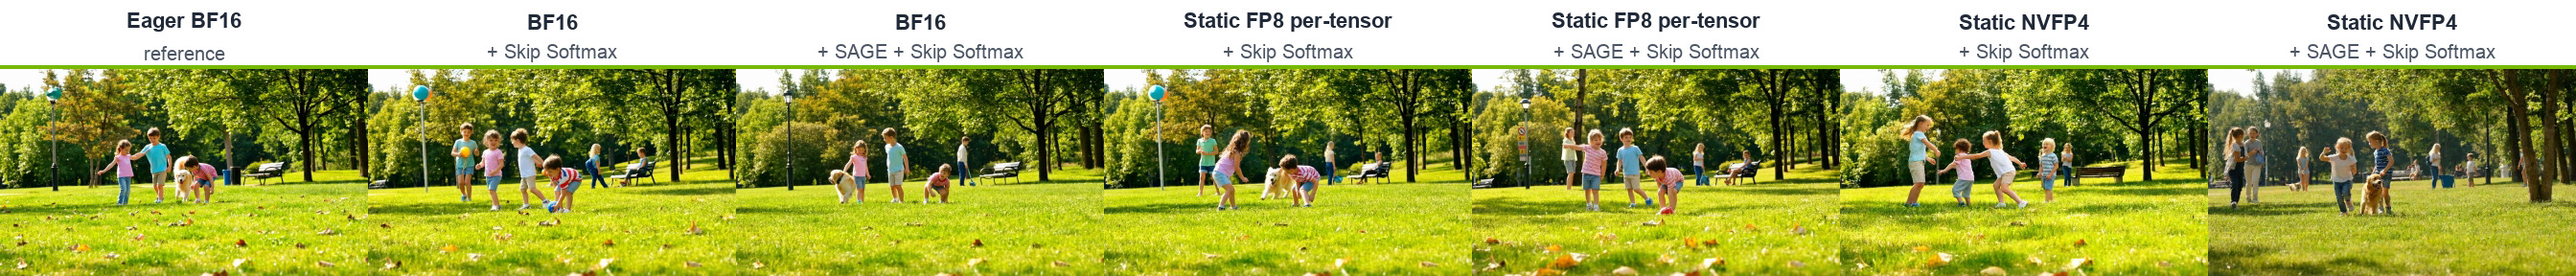
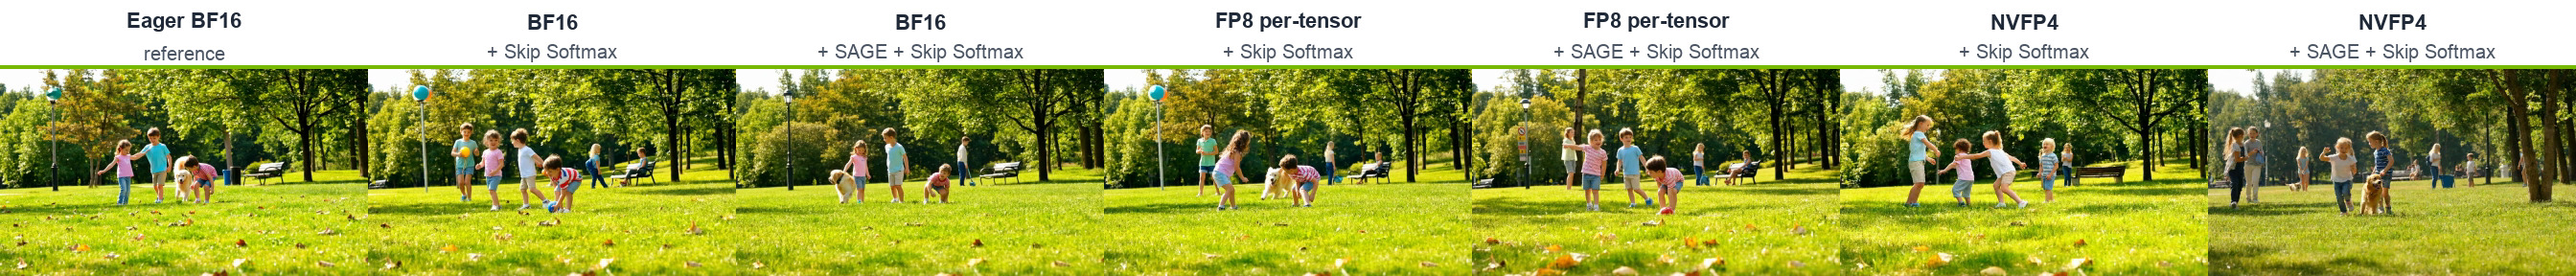
[docs] refine Blog 28 presentation and reproduction

diff --git a/docs/source/blogs/tech_blog/blog28_Accelerating_Video_Generation_with_GEMM_Quantization_Attention_Quantization_and_Skip_Softmax_Attention_in_TensorRT-LLM.md b/docs/source/blogs/tech_blog/blog28_Accelerating_Video_Generation_with_GEMM_Quantization_Attention_Quantization_and_Skip_Softmax_Attention_in_TensorRT-LLM.md
@@ -4,15 +4,14 @@ By NVIDIA TensorRT-LLM Team
 
 ## Introduction
 
-Video diffusion transformers repeatedly process long spatiotemporal token sequences across many denoising steps. Linear layers and attention therefore dominate much of the compute, making them the two most direct targets for reducing generation latency.
+Video diffusion transformers (DiTs) repeatedly process long spatiotemporal token sequences across many denoising steps. Linear layers and attention therefore dominate much of the compute, making them the two most direct targets for reducing generation latency.
 
 Figure 1 breaks down pipeline-forward time for Wan 2.2 T2V-A14B on a single NVIDIA B200. For an 81-frame, 1280×720 video with 40 denoising steps, attention and linear-layer GEMMs account for 70.3% and 21.0% of BF16 pipeline-forward time, respectively.
 
 <p align="center">
-  <img src="../media/tech_blog28_bf16_time_breakdown.png" alt="Pie chart showing that a dense BF16 path spends 70.3% of pipeline-forward time in attention, 21.0% in GEMMs, and 8.7% in other work" width="1080">
+  <img src="../media/tech_blog28_bf16_time_breakdown.png" alt="Pie chart showing that Wan 2.2 T2V-A14B in BF16 spends 70.3% of pipeline-forward time in attention, 21.0% in GEMMs, and 8.7% in other work" width="1080">
 </p>
-
-<p align="center"><sub><em>Figure 1. Pipeline-forward breakdown for dense BF16 on B200.</em></sub></p>
+<p align="center"><sub><em>Figure 1. Diffusion pipeline-forward breakdown for Wan 2.2 T2V-A14B in BF16 on B200.</em></sub></p>
 
 Our earlier post, [Scaling Video Generation Across NVL72 Rack with TensorRT-LLM](https://github.com/NVIDIA/TensorRT-LLM/blob/main/docs/source/blogs/tech_blog/blog25_Scaling_Video_Generation_Across_NVL72_Rack_with_TensorRT-LLM.md), focused on scale-out. This post covers three complementary acceleration techniques inside one transformer pipeline: linear-layer quantization, quantized attention, and sparse attention. The central question is how to reduce latency without giving up more visual quality than the application can tolerate.
 
@@ -29,33 +28,56 @@ Our earlier post, [Scaling Video Generation Across NVL72 Rack with TensorRT-LLM]
 
 Linear-layer quantization reduces the numerical precision of weights and activations so their GEMMs can use higher-throughput Tensor Core paths. TensorRT-LLM VisualGen supports the following GEMM quantization paths:
 
-| Linear-layer path | `quant_algo` | Weight / activation precision | Scale granularity |
-| :--- | :--- | :--- | :--- |
-| FP8 per-tensor | `FP8` | FP8 E4M3 / FP8 E4M3 | One scale per tensor |
-| FP8 blockwise | `FP8_BLOCK_SCALES` | FP8 E4M3 / FP8 E4M3 | 128×128 weight blocks; 1×128 activation blocks |
-| FP8 row-wise | `FP8_PER_CHANNEL_PER_TOKEN` ([WIP](https://github.com/NVIDIA/TensorRT-LLM/pull/16847)) | FP8 E4M3 / FP8 E4M3 | Per-output-channel weights; per-token activations |
-| NVFP4 | `NVFP4` | FP4 E2M1 / FP4 E2M1 | 16-element blocks with FP8 scale factors |
+| `quant_algo` | Weight precision | Weight scaling | Activation precision | Activation scaling |
+| :--- | :--- | :--- | :--- | :--- |
+| `FP8` | FP8 E4M3 | Per tensor (FP32) | FP8 E4M3 | Per tensor (FP32) |
+| `FP8_BLOCK_SCALES` | FP8 E4M3 | Per 128×128 block (FP32<sup>*</sup>) | FP8 E4M3 | Per 1×128 block (FP32<sup>*</sup>) |
+| `FP8_PER_CHANNEL_PER_TOKEN` ([WIP](https://github.com/NVIDIA/TensorRT-LLM/pull/16847)) | FP8 E4M3 | Per output channel (FP32) | FP8 E4M3 | Per token (FP32) |
+| `NVFP4` | FP4 E2M1 | Per 16-element block (FP8 E4M3), plus a per-tensor scale (FP32) | FP4 E2M1 | Per 16-element block (FP8 E4M3), plus a per-tensor scale (FP32) |
 
-- **Static quantization:** Representative inputs are used before inference to find weight and activation scales that make effective use of the limited FP8 or FP4 range. Accuracy-sensitive layers can remain in higher precision instead of being quantized. The resulting checkpoint stores quantized weights together with `weight_scale` and `input_scale` tensors; `input_scale` is the calibrated scale applied to runtime activations. The public checkpoints used in this post were calibrated with [NVIDIA Model Optimizer (ModelOpt)](https://github.com/NVIDIA/Model-Optimizer).
-- **Dynamic quantization:** Dynamic quantization skips offline calibration. VisualGen starts from a BF16 checkpoint, quantizes weights while loading the model, and computes activation scales as the model runs. This makes quantization easy to try without preparing a separate checkpoint, but it generally preserves less accuracy than static quantization with calibrated scales and selectively retained high-precision layers.
+<p align="center"><sub><em><sup>*</sup> FP8 blockwise scale values use FP32 in the checkpoint and generic interface. On B200, weight scales are converted to UE8M0 and activation scales are generated in UE8M0 for the Blackwell block-scaled MMA.</em></sub></p>
 
-In this blog, we test the static `FP8` and `NVFP4` using the [FP8 per-tensor](https://huggingface.co/nvidia/Wan2.2-T2V-A14B-Diffusers-FP8) and [NVFP4](https://huggingface.co/nvidia/Wan2.2-T2V-A14B-Diffusers-NVFP4) Wan 2.2 T2V checkpoints published by ModelOpt.
+Depending on whether there's an offline quantization/calibration procedure, there are two distinct quantization paths:
+
+- **Static quantization:** Weights are quantized offline. Meanwhile, some representative inputs are forwarded through the network to determine the static scaling factors for the activation. After this procedure of offline quantization and calibration, the quantized weights, weight scales and activation scales are stored in the checkpoint. But note that only per-tensor activation scales will be calibrated offline, such as the FP32 for per-tensor `FP8` and the second-level per-tensor in `NVFP4`. Other activation scales, such as the block scales in `NVFP4` are still computed dynamically during runtime. In addition, accuracy-sensitive modules can be discovered and remained in higher precision during offline quantization.
+- **Dynamic quantization:** The original BF16 checkpoint is directly loaded. The weights are quantized to the target precision during loading. The activation is always quantized dynamically during runtime, including the scaling factors, which might be more expensive compared to static quantization path, especially for the per-tensor scales. With dynamic quantization, it is easier to try the target quantization recipe without preparing a dedicated quantized checkpoint, but generally preserves less accuracy than static quantization that could calibrate activation scales and protect sensitive modules.
+
+Static quantization has advantage over dynamic quantization in terms of both speed and accuracy, and should be preferred if possible. The public checkpoints used in this post were quantized with [NVIDIA Model Optimizer (ModelOpt)](https://github.com/NVIDIA/Model-Optimizer). The [ModelOpt diffusion PTQ example](https://github.com/NVIDIA/Model-Optimizer/blob/main/examples/diffusers/README.md#post-training-quantization-ptq) shows how to calibrate and quantize diffusion models.
 
 ## Attention Optimizations
 
-There are two orthogonal directions for accelerating attention: quantized attention lowers numeric precision, while sparse attention omits contributions from unimportant blocks and saves the corresponding computation.
+There are two orthogonal directions for accelerating attention: quantized attention lowers numeric precision, while sparse attention omits contributions from unimportant blocks and saves the corresponding computation. The optimizations introduced in this section are available for the `TRTLLM` attention backend.
 
 ### Quantized Attention
 
-An attention layer performs two matrix multiplications around softmax. SAGE Attention quantizes Q/K as well as V, allowing both multiplications to run through an 8-bit path. TensorRT-LLM's SAGE recipe follows the [SageAttention2](https://arxiv.org/abs/2411.10958) line of work, using INT8 or FP8 Q/K and FP8 V rather than the paper's per-thread INT4 Q/K recipe.
+An attention OP performs two matrix multiplications around softmax: `QKᵀ` produces attention scores, and `PV` linearly combines the V vectors with weights given by the softmax probabilities P. SAGE Attention quantizes the operands of both operations, allowing `QKᵀ` and `PV` to use 8-bit paths. `TRTLLM` SAGE recipe follows the [SageAttention2](https://arxiv.org/abs/2411.10958) line of work, using INT8 or FP8 for `QKᵀ` and FP8 for `PV`.
 
-This post uses SAGE, which can be layered with Skip Softmax to combine quantization and sparsity in the same attention path.
+A quantization block is a group of values that shares one scale. The five fields in `quant_attention_config` define the low-precision formats and scaling granularity used by SAGE Attention:
+
+- `qk_dtype` selects the low-precision format for `QKᵀ`. The `TRTLLM` SAGE backend supports `int8` and `fp8`; this post uses `int8`.
+- `v_dtype` selects the low-precision format for `PV`. The `TRTLLM` SAGE backend currently only supports `fp8` (E4M3).
+- `q_block_size` is the number of consecutive query tokens that share a Q scale. A value of `1` gives each query token its own scale.
+- `k_block_size` is the number of consecutive key tokens that share a K scale. A value of `16` shares one scale across 16 key tokens.
+- `v_block_size` controls scaling along the hidden dimension of V. The value `1` gives each V channel within an attention head its own scale, computed across the tokens.
 
 ### Sparse Attention with Skip Softmax
 
-[Skip Softmax Attention](blog16_Accelerating_Long_Context_Inference_with_Skip_Softmax_Attention.md), also called BLASST, keeps the QK calculation but rejects score blocks sufficiently below the running maximum. Rejected blocks skip exponentiation and the corresponding `P×V` accumulation; the sparsity pattern is determined dynamically rather than stored with the model.
+[Skip Softmax Attention](blog16_Accelerating_Long_Context_Inference_with_Skip_Softmax_Attention.md), also known as [BLASST](https://arxiv.org/abs/2512.12087), keeps the `QKᵀ` calculation but rejects score blocks that fall sufficiently below the running maximum. For query row $i$ and KV block $j$, the block is negligible when
 
-`target_sparsity` controls how aggressively to skip, while `disabled_until_timestep` keeps the early denoising steps dense. In the 40-step UniPC schedule used here, `disabled_until_timestep=0.86` corresponds to 14 initial dense steps followed by 26 Skip Softmax steps. Calibration also protects sensitive layers by leaving them on dense attention. See the [VisualGen Skip Softmax timestep documentation](https://github.com/NVIDIA/TensorRT-LLM/blob/main/docs/source/visual-gen/features/sparse-attention.md#mapping-disabled_until_timestep-to-actual-denoising-steps) for the definition and scheduler-dependent mapping.
+$$
+\exp(\tilde{m}_i^{(j)} - m_i^{(j)}) < \lambda,
+$$
+
+where $\tilde{m}_i^{(j)}$ is the maximum score in the current block, $m_i^{(j)}$ is the running maximum, and $\lambda$ is the threshold. A larger $\lambda$ rejects more blocks. Rejected blocks skip exponentiation and the corresponding `PV` accumulation.
+
+Because the score distribution depends on the input, a fixed threshold $\lambda$ does not guarantee fixed sparsity. To make sparsity easier to control, NVIDIA ModelOpt can calibrate a formula that maps a desired `target_sparsity` to the threshold and store it in the checkpoint configuration. See the [ModelOpt Wan 2.2 Skip Softmax example](https://github.com/NVIDIA/Model-Optimizer/tree/main/examples/diffusers/sparsity) for the calibration workflow. With this metadata, two controls shape the quality-speed tradeoff:
+
+- `target_sparsity` expresses how aggressively to skip as an intuitive target.
+- `disabled_until_timestep` keeps the early denoising steps dense before enabling Skip Softmax.
+
+The mapping from `disabled_until_timestep` to actual denoising steps depends on the scheduler and is not linear. In the 40-step UniPC schedule used here, `disabled_until_timestep=0.86` keeps the 14/40 steps dense and enables Skip Softmax for the remaining 26. See the [VisualGen Skip Softmax Attention documentation](https://github.com/NVIDIA/TensorRT-LLM/blob/main/docs/source/visual-gen/features/sparse-attention.md#mapping-disabled_until_timestep-to-actual-denoising-steps) for the scheduler-dependent mapping.
+
+The ModelOpt checkpoints used in this experiment already include this calibration metadata. Without calibration, Skip Softmax can still be enabled by setting the threshold directly. See the [VisualGen Skip Softmax Attention documentation](https://github.com/NVIDIA/TensorRT-LLM/blob/main/docs/source/visual-gen/features/sparse-attention.md#skip-softmax-attention) for direct-threshold configuration.
 
 ## Results
 
@@ -65,14 +87,13 @@ We evaluate the three techniques on a fixed Wan 2.2 workload while varying linea
 
 | Item | Setting |
 | :--- | :--- |
-| Checkpoints | [BF16](https://huggingface.co/Wan-AI/Wan2.2-T2V-A14B-Diffusers), [static FP8 per-tensor](https://huggingface.co/nvidia/Wan2.2-T2V-A14B-Diffusers-FP8), and [static NVFP4](https://huggingface.co/nvidia/Wan2.2-T2V-A14B-Diffusers-NVFP4) |
-| Accelerator | NVIDIA B200 |
+| Checkpoints | [Official BF16](https://huggingface.co/Wan-AI/Wan2.2-T2V-A14B-Diffusers), [ModelOpt FP8 per-tensor](https://huggingface.co/nvidia/Wan2.2-T2V-A14B-Diffusers-FP8), and [ModelOpt NVFP4](https://huggingface.co/nvidia/Wan2.2-T2V-A14B-Diffusers-NVFP4) |
+| GPU | NVIDIA B200 |
 | Generated video | 1280×720, 81 frames at 16 FPS |
 | Denoising | 40 steps; guidance 4.0 for the high-noise expert and 3.0 for the low-noise expert |
-| Linear-layer paths | BF16, ModelOpt static FP8 per-tensor, ModelOpt static NVFP4 |
-| Attention paths | Dense, or SAGE with INT8 Q/K, FP8 V, and Q/K/V block sizes of 1/16/1 |
+| Attention paths | Dense, or SAGE with INT8 `QKᵀ`, FP8 `PV`, and Q/K/V block sizes of 1/16/1 |
 
-The static checkpoints include calibrated Skip Softmax metadata for both Wan transformers. For the BF16 Skip Softmax rows, the same metadata is added to the BF16 checkpoint.
+The ModelOpt checkpoints have already included calibrated Skip Softmax metadata. For the BF16 Skip Softmax rows, the same metadata is added to the BF16 checkpoint.
 
 We use two baselines:
 
@@ -84,7 +105,7 @@ Compilation can change kernel fusion and floating-point operation ordering, so c
 The 96 configurations are a characterization sweep, not a recommended per-model tuning cost:
 
 ```text
-{BF16 reference, static FP8 per-tensor, static NVFP4}
+{BF16 reference, FP8 per-tensor, NVFP4}
 × {dense attention, SAGE}
 × {no Skip Softmax, or
    target_sparsity {0.65, 0.70, 0.75}
@@ -95,7 +116,12 @@ Every setting uses the same seven prompt-and-seed pairs. Latency covers one comp
 
 ### Quality-speed frontier
 
-Skip Softmax introduces an explicit quality-speed tradeoff. Figure 2 maps every configuration instead of reducing the sweep to a few hand-picked points. Squares mark runs without Skip Softmax; stars mark the conservative configuration (`target_sparsity=0.75`, `disabled_until_timestep=0.86`); and triangles mark the aggressive end of the sweep (`target_sparsity=0.75`, `disabled_until_timestep=1.00`). The triangles show the upper-speed end of the sweep rather than a recommended setting. The remaining sweep points are circles, and the dashed line traces the global Pareto frontier.
+Figure 2 organizes the 96 data points in two levels. Color identifies one of six GEMM/attention quantization families: three GEMM precisions, each with and without SAGE. Within each color, a square marks no Skip Softmax and the other 15 points sweep three `target_sparsity` values across five `disabled_until_timestep` values. We highlight two of these Skip Softmax configurations:
+
+- **Conservative:** `target_sparsity=0.75`, `disabled_until_timestep=0.86`, shown as a star.
+- **Aggressive:** `target_sparsity=0.75`, `disabled_until_timestep=1.00`, shown as a triangle.
+
+The remaining Skip Softmax configurations are circles, and the dashed line traces the global Pareto frontier across all six families.
 
 <p align="center">
   <img src="../media/tech_blog28_quality_speed_frontier.png" alt="Scatter plot of speedup versus mean LPIPS for the Wan 2.2 optimization sweep, with squares for runs without Skip Softmax, stars for conservative configurations, triangles for aggressive configurations, and a dashed global Pareto frontier" width="1080">
@@ -105,48 +131,52 @@ Skip Softmax introduces an explicit quality-speed tradeoff. Figure 2 maps every 
 
 ### Frontier analysis
 
-The table condenses the 18 marked points into six family rows. Each cell reports `speedup / mean LPIPS`; the star and triangle use the same Skip Softmax settings as Figure 2.
+The table condenses the 18 marked points into six family (GEMM/attention quantization) and lists the three Skip Softmax configs on top of them. Each cell reports `speedup / mean LPIPS`; the star and triangle use the same Skip Softmax settings as Figure 2.
 
 | GEMM/attention quantization | ■ No Skip Softmax | ★ Conservative Skip Softmax | ▲ Aggressive Skip Softmax |
 | :--- | :--- | :--- | :--- |
 | BF16 | 1.000× / 0.2150 | 1.098× / 0.2422 | 1.194× / 0.4910 |
 | BF16 + SAGE | 1.091× / 0.2815 | 1.191× / 0.3011 | 1.288× / 0.4851 |
-| Static FP8 per-tensor | 1.069× / 0.2654 | 1.202× / 0.2807 | 1.311× / 0.4904 |
-| Static FP8 per-tensor + SAGE | 1.210× / 0.2966 | 1.354× / 0.3164 | 1.475× / 0.4850 |
-| Static NVFP4 | 1.133× / 0.3785 | 1.275× / 0.3883 | 1.404× / 0.4821 |
-| Static NVFP4 + SAGE | 1.272× / 0.3646 | 1.427× / 0.3786 | 1.540× / 0.4843 |
+| FP8 per-tensor | 1.069× / 0.2654 | 1.202× / 0.2807 | 1.311× / 0.4904 |
+| FP8 per-tensor + SAGE | 1.210× / 0.2966 | 1.354× / 0.3164 | 1.475× / 0.4850 |
+| NVFP4 | 1.133× / 0.3785 | 1.275× / 0.3883 | 1.404× / 0.4821 |
+| NVFP4 + SAGE | 1.272× / 0.3646 | 1.427× / 0.3786 | 1.540× / 0.4843 |
 
-Static FP8 stays close to BF16 in LPIPS while reducing latency, whereas NVFP4 moves to a faster operating range with a larger quality tradeoff. This makes the GEMM format the broadest choice in the frontier.
+FP8 per-tensor stays close to BF16 in LPIPS while reducing latency, whereas NVFP4 moves to a faster operating range with a larger quality tradeoff. Choosing BF16, FP8, or NVFP4 therefore establishes the overall speed-quality range before the attention optimizations tune the operating point within it.
 
 SAGE shifts every GEMM family toward higher speedup with a smaller LPIPS change than the move between GEMM formats. It can therefore be selected independently before using Skip Softmax to fine-tune the operating point.
 
 Skip Softmax then fills the space within each family. `target_sparsity` controls how much work can be rejected, while `disabled_until_timestep` controls how early that rejection begins. Together they provide a continuum between the conservative stars and aggressive triangles instead of a single all-or-nothing sparse mode.
 
-This layered structure explains the Pareto frontier. Its higher-speed region is dominated by static FP8 and NVFP4 configurations that combine SAGE with Skip Softmax. GEMM quantization selects the broad operating range; SAGE and Skip Softmax then provide finer control within it.
+This layering explains the shape of the Pareto frontier: its higher-speed region is dominated by configurations that combine SAGE with Skip Softmax, and no single technique reaches there alone.
 
 ### Latency step-down
 
 Figure 3 isolates the attention optimizations within each GEMM precision. Each group starts with dense attention, adds SAGE, and then adds the conservative Skip Softmax setting from the frontier. The bars report absolute pipeline-forward latency, while their labels retain the common speedup against compiled dense BF16.
 
 <p align="center">
-  <img src="../media/tech_blog28_latency_step_down.png" alt="Horizontal latency step-down bars for BF16, static FP8 per-tensor, and static NVFP4, each progressing from dense attention to SAGE and then SAGE with conservative Skip Softmax" width="1080">
+  <img src="../media/tech_blog28_latency_step_down.png" alt="Horizontal latency step-down bars for BF16, FP8 per-tensor, and NVFP4, each progressing from dense attention to SAGE and then SAGE with conservative Skip Softmax" width="1080">
 </p>
 
 <p align="center"><sub><em>Figure 3. Pipeline-forward latency after successively adding SAGE and conservative Skip Softmax within each GEMM precision. Lower is better.</em></sub></p>
 
 ### Visual validation
 
-Video quality includes motion consistency and temporal stability, which a framewise metric cannot show on its own. Figure 4 compares P1 across the eager reference and all six optimized families. Every optimized video uses the conservative star setting from the frontier: `target_sparsity=0.75` and `disabled_until_timestep=0.86`. Speedup is relative to compiled dense BF16; eager BF16 is included only as the visual reference.
+Figure 4 compares the generated videos for prompt P1 across the same six GEMM/attention quantization families used in the frontier. Eager BF16 serves as the visual quality reference, while the speedup labels use compiled dense BF16 as their baseline.
 
-| Eager BF16 reference | BF16 + Skip Softmax (1.10×) |
+| Eager BF16 reference |
+| :---: |
+| ![Eager BF16 P1 generation](../media/tech_blog28_video_p01_eager_bf16.gif) |
+
+The six videos below are grouped by GEMM precision, with the SAGE variant on the right. All six use the **Conservative** Skip Softmax setting (★): `target_sparsity=0.75` and `disabled_until_timestep=0.86`.
+
+| BF16 + Skip Softmax (1.10×) | BF16 + SAGE + Skip Softmax (1.19×) |
 | :---: | :---: |
-| ![Eager BF16 P1 generation](../media/tech_blog28_video_p01_eager_bf16.gif) | ![BF16 with Skip Softmax P1 generation](../media/tech_blog28_video_p01_bf16_skip_softmax.gif) |
-| **BF16 + SAGE + Skip Softmax (1.19×)** | **Static FP8 per-tensor + Skip Softmax (1.20×)** |
-| ![BF16 with SAGE and Skip Softmax P1 generation](../media/tech_blog28_video_p01_bf16_sage_skip_softmax.gif) | ![Static FP8 per-tensor with Skip Softmax P1 generation](../media/tech_blog28_video_p01_fp8_skip_softmax.gif) |
-| **Static FP8 per-tensor + SAGE + Skip Softmax (1.35×)** | **Static NVFP4 + Skip Softmax (1.27×)** |
-| ![Static FP8 per-tensor with SAGE and Skip Softmax P1 generation](../media/tech_blog28_video_p01_fp8_sage_skip_softmax.gif) | ![Static NVFP4 with Skip Softmax P1 generation](../media/tech_blog28_video_p01_nvfp4_skip_softmax.gif) |
-| **Static NVFP4 + SAGE + Skip Softmax (1.43×)** | |
-| ![Static NVFP4 with SAGE and Skip Softmax P1 generation](../media/tech_blog28_video_p01_nvfp4_sage_skip_softmax.gif) | |
+| ![BF16 with Skip Softmax P1 generation](../media/tech_blog28_video_p01_bf16_skip_softmax.gif) | ![BF16 with SAGE and Skip Softmax P1 generation](../media/tech_blog28_video_p01_bf16_sage_skip_softmax.gif) |
+| **FP8 per-tensor + Skip Softmax (1.20×)** | **FP8 per-tensor + SAGE + Skip Softmax (1.35×)** |
+| ![FP8 per-tensor with Skip Softmax P1 generation](../media/tech_blog28_video_p01_fp8_skip_softmax.gif) | ![FP8 per-tensor with SAGE and Skip Softmax P1 generation](../media/tech_blog28_video_p01_fp8_sage_skip_softmax.gif) |
+| **NVFP4 + Skip Softmax (1.27×)** | **NVFP4 + SAGE + Skip Softmax (1.43×)** |
+| ![NVFP4 with Skip Softmax P1 generation](../media/tech_blog28_video_p01_nvfp4_skip_softmax.gif) | ![NVFP4 with SAGE and Skip Softmax P1 generation](../media/tech_blog28_video_p01_nvfp4_sage_skip_softmax.gif) |
 
 <p align="center"><sub><em>Figure 4. P1 video comparison across the eager BF16 reference and six conservative Skip Softmax configurations.</em></sub></p>
 
@@ -184,7 +214,7 @@ Figure 5 expands the first-frame comparison to all seven prompts. Each row compa
 
 ## Reproduction
 
-The commands below target TensorRT-LLM 1.3.0rc26. Choose either the [static FP8 per-tensor checkpoint](https://huggingface.co/nvidia/Wan2.2-T2V-A14B-Diffusers-FP8) or the [static NVFP4 checkpoint](https://huggingface.co/nvidia/Wan2.2-T2V-A14B-Diffusers-NVFP4). The checkpoint selects the GEMM format and supplies the calibrated quantization scales and Skip Softmax metadata.
+The commands below target TensorRT-LLM 1.3.0rc26. The ModelOpt [static FP8 per-tensor checkpoint](https://huggingface.co/nvidia/Wan2.2-T2V-A14B-Diffusers-FP8) or the [static NVFP4 checkpoint](https://huggingface.co/nvidia/Wan2.2-T2V-A14B-Diffusers-NVFP4) has contained the Skip Softmax calibration config, and you may need to manually copy the configs into the official BF16 checkpoint for reproduction.
 
 ### VisualGen configuration
 
@@ -209,13 +239,17 @@ torch_compile_config:
   enable_autotune: false
 ```
 
-The `quant_attention_config` block selects SAGE independently of GEMM precision. The configuration uses INT8 Q/K, FP8 V, and Q/K/V block sizes of 1/16/1 on the `TRTLLM` backend. Remove this block to keep attention unquantized while retaining Skip Softmax.
+SAGE Attention and Skip Softmax can be disabled independently by removing the `quant_attention_config` and `sparse_attention_config` blocks, respectively. See [Attention Optimizations](#attention-optimizations) for the meaning of each option.
 
-The `sparse_attention_config` block controls Skip Softmax:
+For a model that does not yet have a prequantized checkpoint, dynamic quantization can be applied to its BF16 checkpoint by adding a top-level `quant_config` block:
 
-- `target_sparsity` is converted to a threshold through each transformer's calibration formula, so achieved sparsity can vary by layer and timestep.
-- This `target_sparsity` form requires checkpoint calibration metadata. Without calibration, Skip Softmax can instead be enabled by configuring `threshold_scale_factor` directly. See the [VisualGen Skip Softmax Attention documentation](https://github.com/NVIDIA/TensorRT-LLM/blob/main/docs/source/visual-gen/features/sparse-attention.md#skip-softmax-attention) for direct-threshold configuration.
-- `disabled_until_timestep` controls when skipping begins as denoising descends from near 1 to 0: a lower value keeps more early steps dense.
+```yaml
+quant_config:
+  quant_algo: NVFP4
+  dynamic: true
+```
+
+Replace `NVFP4` with others when the model supports that format. Dynamic quantization is an optional path and was not measured in this post.
 
 ### Run with trtllm-serve
 
@@ -264,13 +298,13 @@ curl --fail --silent --show-error \
 
 </details>
 
-For the reported latency, a complete 40-step pipeline forward is bracketed by CUDA synchronization, and the seven prompt times are averaged. Video encoding is outside this timed region. The eager BF16 quality reference disables compilation, quantization, SAGE, and Skip Softmax. AlexNet LPIPS is computed between corresponding frames, averaged over all 81 frames and then over the seven prompts.
+For the reported latency, the pipeline forward is bracketed by CUDA synchronization and the seven prompt times are averaged. The eager BF16 quality reference disables compilation, quantization, SAGE, and Skip Softmax. AlexNet LPIPS is computed between corresponding frames, averaged over all 81 frames and then over the seven prompts.
 
 ## Conclusion
 
-Accelerating video diffusion is not a single precision switch. It is a process of deciding where the pipeline can tolerate lower precision and where it can safely avoid work altogether. TensorRT-LLM exposes linear-layer quantization, quantized attention, and Skip Softmax as composable controls, so deployments can choose an operating point that matches their own quality bar instead of inheriting one fixed recipe.
+Accelerating video diffusion is a process of trading off between the desired accuracy and speedup. TensorRT-LLM exposes linear-layer quantization, quantized attention, and Skip Softmax as composable controls, so deployments can choose an operating point that matches their own quality bar instead of inheriting one fixed recipe.
 
-That operating point is model-, prompt-, and hardware-dependent. A useful optimization workflow therefore combines representative prompts, deployment-relevant latency, aggregate quality metrics, and direct inspection of generated videos. Future work can explore agentic search to automate these experiments and navigate the speed-quality tradeoff.
+That operating point is model-, prompt-, and hardware-dependent. A useful optimization workflow therefore combines representative prompts, deployment-relevant latency, aggregate quality metrics, and direct inspection of generated videos. In the future, we will explore agentic search to automate these experiments and navigate the speed-quality tradeoff.
 
 These single-GPU techniques are also orthogonal to the scale-out methods in [Scaling Video Generation Across NVL72 Rack with TensorRT-LLM](https://github.com/NVIDIA/TensorRT-LLM/blob/main/docs/source/blogs/tech_blog/blog25_Scaling_Video_Generation_Across_NVL72_Rack_with_TensorRT-LLM.md), and can be combined with multi-GPU parallelism when the deployment requires higher throughput or larger workloads.
 
@@ -280,4 +314,5 @@ These single-GPU techniques are also orthogonal to the scale-out methods in [Sca
 2. [SageAttention: Accurate 8-Bit Attention for Plug-and-play Inference Acceleration](https://arxiv.org/abs/2410.02367)
 3. [SageAttention2: Efficient Attention with Thorough Outlier Smoothing and Per-thread INT4 Quantization](https://arxiv.org/abs/2411.10958)
 4. [NVIDIA Model Optimizer Diffusers Quantization Example](https://github.com/NVIDIA/Model-Optimizer/tree/main/examples/diffusers)
-5. [BLASST: Dynamic BLocked Attention Sparsity via Softmax Thresholding](https://arxiv.org/abs/2512.12087)
+5. [NVIDIA Model Optimizer Skip Softmax Calibration Example](https://github.com/NVIDIA/Model-Optimizer/tree/main/examples/diffusers/sparsity)
+6. [BLASST: Dynamic BLocked Attention Sparsity via Softmax Thresholding](https://arxiv.org/abs/2512.12087)

diff --git a/docs/source/visual-gen/features/sparse-attention.md b/docs/source/visual-gen/features/sparse-attention.md
@@ -94,22 +94,23 @@ Skip Softmax Attention works with both the **TRTLLM** and **CUTEDSL** attention 
 
 #### Mapping `disabled_until_timestep` to Actual Denoising Steps
 
-VisualGen passes each transformer a normalized scheduler timestep `t` in `[0, 1]`. Denoising
-proceeds from high to low `t`. For a configured `disabled_until_timestep` value `D`, Skip Softmax
-Attention is disabled while `t >= D` and enabled once `t < D`. Equality therefore belongs to the
-dense phase.
+VisualGen passes each transformer a normalized scheduler timestep `t` in `[0, 1]`. Denoising proceeds from high to low `t`. Skip Softmax Attention is disabled while `t >= disabled_until_timestep` and enabled once `t < disabled_until_timestep`. Equality therefore belongs to the dense phase.
 
-For a scheduler sequence `t[0], ..., t[N-1]`, the number of initial dense-attention steps is the
-number of entries whose normalized timestep is greater than or equal to `D`:
+For a scheduler sequence `t[0], ..., t[N-1]`, the number of initial dense-attention steps is the number of entries whose normalized timestep is greater than or equal to `disabled_until_timestep`:
 
 ```text
 dense_steps = count(t[i] >= disabled_until_timestep)
 skip_softmax_steps = N - dense_steps
 ```
 
-The mapping must be computed from the actual scheduler sequence; `D` is not simply a fraction of
-`N` when the schedule is nonlinear. The 40-step Wan 2.2 UniPC schedule used in the
-video-generation optimization blog has the following mapping:
+The mapping must be computed from the actual scheduler sequence; `disabled_until_timestep` is not simply a fraction of `N` when the schedule is nonlinear. In the 40-step Wan 2.2 UniPC example, `s[i]` is the unshifted normalized flow sigma at denoising step `i`: it represents the base noise level before `flow_shift` is applied. The checkpoint uses 1,000 training timesteps and `flow_shift=3.0`:
+
+```text
+s[i] = 1 - i * (1 - 1/1000) / 40,              i = 0, ..., 39
+shifted_sigma[i] = 3 * s[i] / (1 + 2 * s[i])
+```
+
+The flow shift concentrates timesteps near the high-noise end of the schedule. UniPC converts these shifted sigmas into the normalized runtime timestep sequence `t[i]`. Each row below is obtained from that actual sequence by evaluating `t[i] >= disabled_until_timestep` for all 40 steps and counting how many comparisons are true:
 
 | `disabled_until_timestep` | Initial dense steps | Skip Softmax steps |
 | :---: | ---: | ---: |
@@ -120,10 +121,11 @@ video-generation optimization blog has the following mapping:
 | `0.90` | 10 | 30 |
 | `0.86` | 14 | 26 |
 
-This control is specific to iterative visual generation: the same attention layers run repeatedly
-while the denoising state changes, so early high-noise steps can remain dense before sparsity is
-enabled later. Autoregressive LLM inference has no descending diffusion timestep and therefore no
-equivalent denoising-phase boundary.
+For example, the actual sequence has `t[13]` at approximately `0.861` and `t[14]` at approximately `0.848`. Therefore, `disabled_until_timestep=0.86` is true for `i=0, ..., 13`, giving 14 initial dense steps and 26 Skip Softmax steps.
+
+VisualGen defines this cutoff using the **scheduler-derived normalized timestep** `t[i]`, rather than the **denoising-step index** `i`, so the same configuration interface works across models, schedulers, and different numbers of inference steps while preserving each scheduler's denoising trajectory.
+
+This control is specific to iterative visual generation: the same attention layers run repeatedly while the denoising state changes, so early high-noise steps can remain dense before sparsity is enabled later.
 
 #### Python API
 
